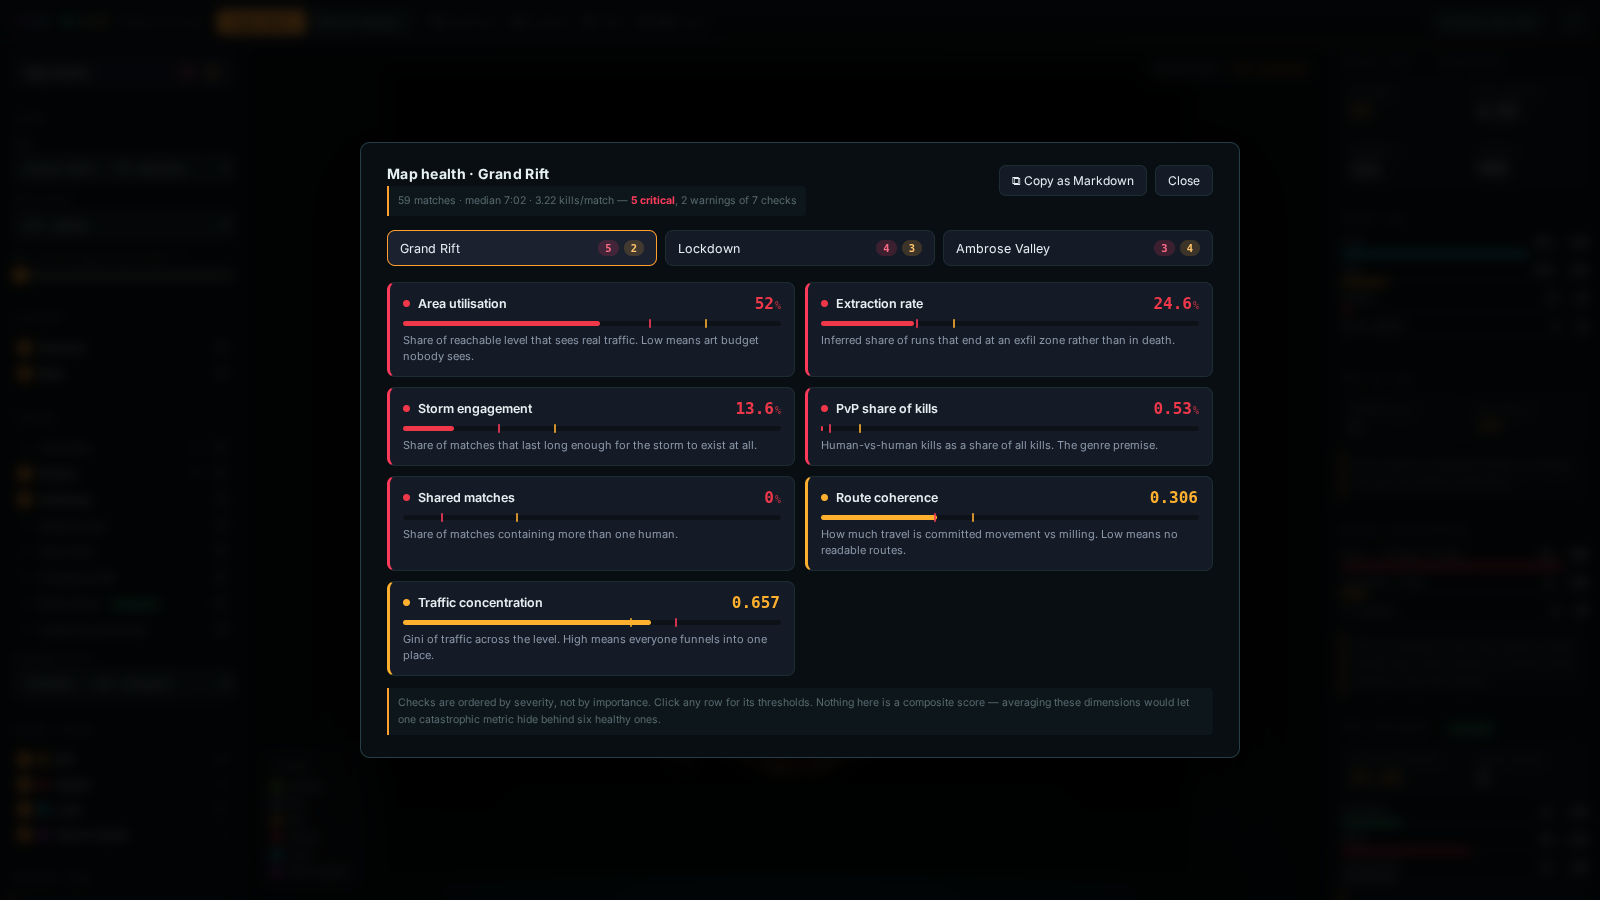
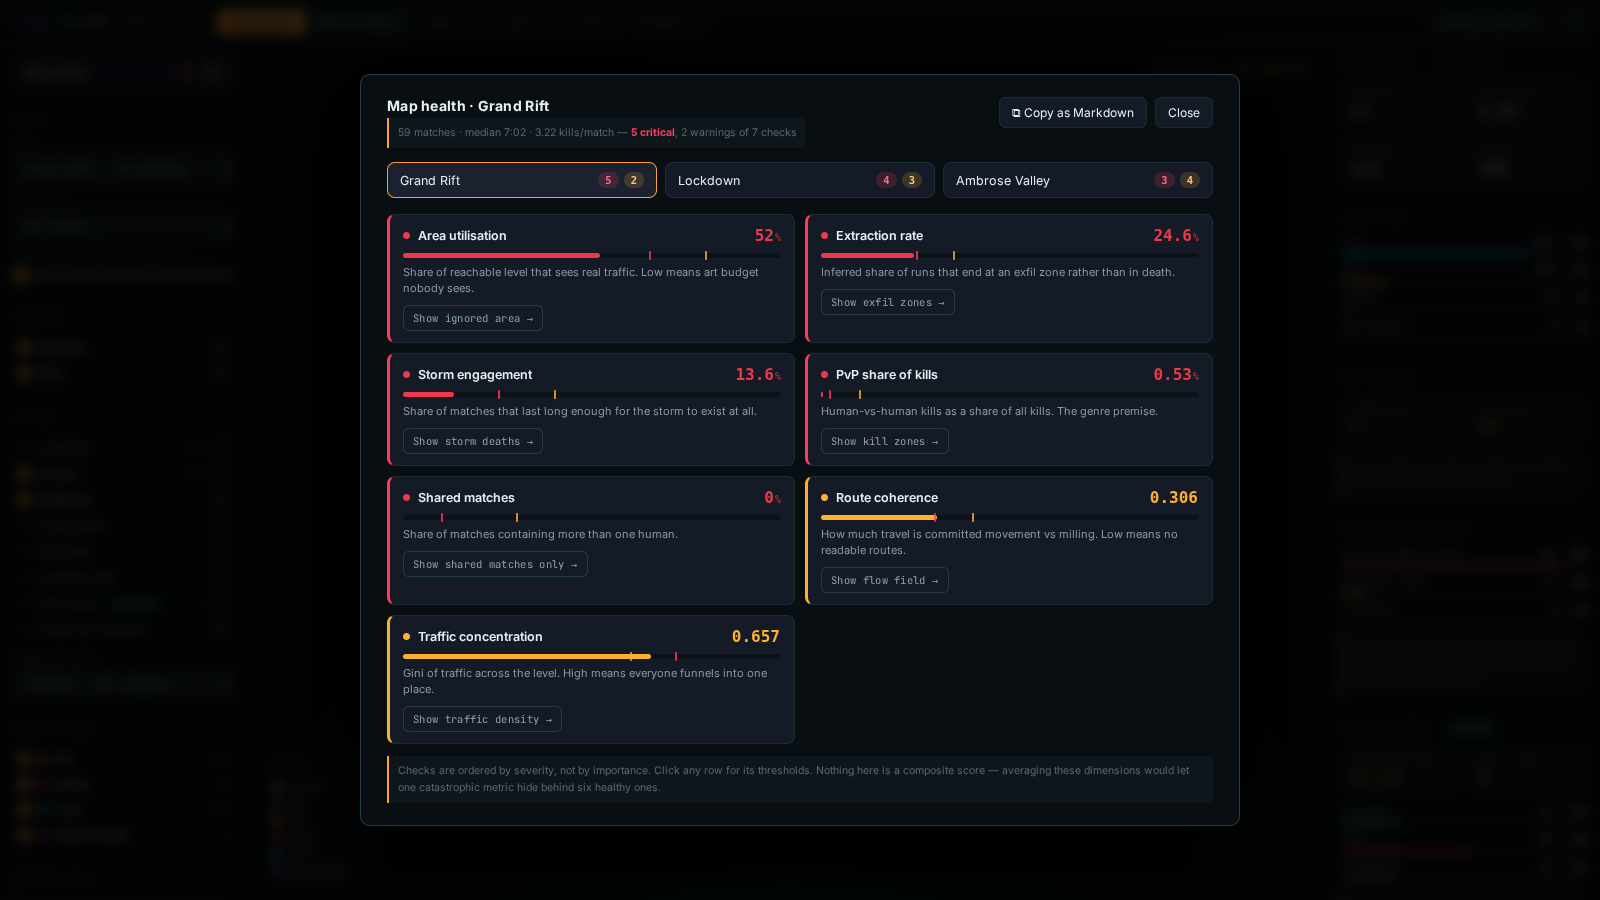
feat: clickable evidence on every scorecard flag; focus docs on six features
A flag you cannot interrogate is just a number. Each of the seven checks
now knows which layers prove it, so one click configures the map to the
evidence and closes the card.

Docs restructured around six features rather than a flat list of twelve:
four differentiators (exfil inference, rotation/flow, phase compare,
scorecard) and the two foundations they stand on (journey explorer,
match replay). Nothing removed - the core requirements are all still
there, they just no longer read as scattered.

Added industry grounding to README and ARCHITECTURE 4b: the four
headline features match how battle-royale telemetry is actually
consumed - endpoint-location analysis (COD Warzone Caldera study),
mart_player_rotation and fact_match_phase (PUBG warehouses), and
balance marts. Also records what was rejected and why: chokepoint
detection would render empty at 93.3% solo matches.

diff --git a/web/src/components/Scorecard.tsx b/web/src/components/Scorecard.tsx
@@ -40,8 +40,47 @@ function Gauge({ row }: { row: ScorecardRow }) {
   );
 }
 
+/**
+ * Each check knows which layers prove it. A flag you cannot interrogate is
+ * just a number; this turns every row into a one-click jump to the evidence,
+ * which is the difference between a report and a tool.
+ */
+const EVIDENCE: Record<string, { patch: any; label: string }> = {
+  utilisation: {
+    label: 'Show ignored area',
+    patch: { showDead: true, showHeat: false, showDiff: false, showFlow: false, showPaths: false, showEvents: false },
+  },
+  coherence: {
+    label: 'Show flow field',
+    patch: { showFlow: true, flowMin: 0.3, showHeat: true, heatMetric: 'traffic', showDiff: false, showDead: false, showPaths: false, showEvents: false },
+  },
+  concentration: {
+    label: 'Show traffic density',
+    patch: { showHeat: true, heatMetric: 'traffic', showDiff: false, showFlow: false, showDead: false, showPaths: false, showEvents: false },
+  },
+  extraction: {
+    label: 'Show exfil zones',
+    patch: { showExfil: true, colorByOutcome: true, showHeat: false, showDiff: false, showFlow: false, showDead: false, showPaths: false, showEvents: false },
+  },
+  storm_reach: {
+    label: 'Show storm deaths',
+    patch: { showHeat: true, heatMetric: 'storm', showDiff: false, showFlow: false, showDead: false, showPaths: false, showEvents: true },
+  },
+  pvp_share: {
+    label: 'Show kill zones',
+    patch: { showHeat: true, heatMetric: 'kills', showDiff: false, showFlow: false, showDead: false, showPaths: false, showEvents: false },
+  },
+  shared: {
+    label: 'Show shared matches only',
+    patch: { minHumans: 2, showHeat: true, heatMetric: 'traffic_human', showDiff: false, showFlow: false, showDead: false, showPaths: false, showEvents: false },
+  },
+};
+
 function Row({ row }: { row: ScorecardRow }) {
   const [open, setOpen] = useState(false);
+  const patch = useStore((s) => s.patch);
+  const setOpenCard = useStore((s) => s.setScorecard);
+  const ev = EVIDENCE[row.key];
   const color = STATUS_COLOR[row.status];
   return (
     <div className={`sc-row ${row.status}`} onClick={() => setOpen(!open)}>
@@ -56,6 +95,18 @@ function Row({ row }: { row: ScorecardRow }) {
       <Gauge row={row} />
       <div className="sc-why">
         {row.why}
+        {ev && (
+          <button
+            className="sc-ev"
+            onClick={(e) => {
+              e.stopPropagation();
+              patch(ev.patch);
+              setOpenCard(false);
+            }}
+          >
+            {ev.label} →
+          </button>
+        )}
         {open && (
           <div className="sc-thr">
             {row.higher ? 'Higher is better. ' : 'Lower is better. '}

diff --git a/web/src/theme.css b/web/src/theme.css
@@ -523,3 +523,11 @@ sup.inf {
 }
 .row.static { cursor: default; }
 .row.static:hover { background: none; }
+.sc-ev {
+  display: block; margin-top: 8px; padding: 5px 9px;
+  background: transparent; border: 1px solid var(--line-2);
+  border-radius: 6px; color: var(--text-2);
+  font-family: var(--mono); font-size: 10.5px; letter-spacing: .03em;
+  cursor: pointer; transition: border-color .15s, color .15s;
+}
+.sc-ev:hover { border-color: var(--accent); color: var(--accent); }

diff --git a/README.md b/README.md
@@ -22,24 +22,42 @@ A browser tool that turns 5 days of raw LILA BLACK telemetry into something a **
 
 ## What it does
 
-| | Feature |
+Six features. Four of them are the reason this is worth your time; two are the
+foundation they stand on.
+
+### The four
+
+| | Feature | What it answers | Why it exists |
+|---|---|---|---|
+| 1 | **Exfil Intelligence** <sup>inferred</sup> | *Where do players actually get out?* | The telemetry has **no extraction event** — the defining outcome of an extraction shooter is unrecorded. These zones are recovered statistically: locations where 13–47× more runs end than traffic predicts, validated against an independent signal (players ending inside one die **0.6 %** of the time; everyone else dies **82.8 %**). Produces an **extraction rate** (~27 %) that was previously unmeasurable. `ARCHITECTURE.md` §3c |
+| 2 | **Rotation & Flow Field** | *Which way do players move, and is it a route or a wander?* | A heatmap says *where*. This says *which way*, per cell, coloured by **coherence** = `\|Σv\| / Σ\|v\|` — amber is a one-way corridor, blue is milling. Rotations are a first-class table in real battle-royale warehouses, not an afterthought. `ARCHITECTURE.md` §3b |
+| 3 | **Phase Compare (A/B)** | *Did the distribution of players actually move?* | Divergent diff of any two slices — late vs early game, bots vs humans, deaths vs traffic. Both sides are normalised to a share of their own total **before** subtracting, so it measures redistribution rather than sample size. `ARCHITECTURE.md` §3b |
+| 4 | **Map Health Scorecard** | *What's wrong with this map, without me going to look?* | Seven checks per map, severity-ranked, thresholds visible and contestable, **every flag clickable straight to the layer that proves it**, exportable as Markdown for a ticket. The only declarative view in the tool. `ARCHITECTURE.md` §3d |
+
+### The two it stands on
+
+| | Feature | Contains |
+|---|---|---|
+| 5 | **Journey Explorer** | The aggregate workspace: every path on the correct minimap, humans (lime) vs bots (slate), kill/death/loot/storm markers, filtering by map / date / match / player count, six heatmap metrics, **dead-zone detection**, and a `Shift`+drag **region tool** that returns kill/death/loot counts and traffic share for any area. |
+| 6 | **Match Replay** | One match animated over its own timeline — play/pause, 1×–16×, scrub, frame-step, with an **event-density histogram baked into the scrubber** so you can see where the action is and click to it. |
+
+Throughout: every filter, layer, match and timestamp lives in the URL, so **Copy view link** puts the exact screen in a colleague's hands. `Ctrl`/`⌘`+`D` overlays a live world-coordinate grid so the projection can be audited without reading code.
+
+---
+
+## Grounding: this is the feature set real studios build
+
+The four headline features weren't invented. They're the standard shape of
+battle-royale level-design analytics, checked against how the genre's
+practitioners actually work:
+
+| Here | Industry equivalent |
 |---|---|
-| **Two modes** | **Aggregate** — heatmaps and statistics across hundreds of matches. **Match Replay** — one match, animated, with a timeline. They're different jobs, so they're different screens. |
-| **Player journeys** | Every path projected onto the correct minimap with the world→pixel transform verified against map landmarks (see `ARCHITECTURE.md` §3). |
-| **Humans vs bots** | Humans are bright green circles with thicker paths; bots are dimmed slate squares with thin paths. Distinguishable at a glance, toggleable with `H` / `B`. |
-| **Event markers** | Kill (amber), Death (red), Loot (cyan), Storm death (violet) — consistent across markers, legend, filters and timeline. |
-| **Filtering** | By map, by UTC date, by match, and by minimum human players per match. |
-| **Timeline playback** | Play/pause, 1×–16× speed, scrub, frame-step. The scrubber track has an **event-density histogram** baked in, so you can see where the action is and click straight to it. |
-| **Heatmaps** | Traffic (all / humans only), kill zones, death zones, loot density, storm deaths. |
-| **Flow field** | Movement **direction**, not just density. Each cell shows the mean heading of players crossing it, coloured by **coherence** (`\|Σv\| / Σ\|v\|`) — amber = a one-way corridor everyone traverses the same way, blue = a pocket where players mill about. A heatmap says *where*; this says *which way*, which is what "map flow" actually means. |
-| **Compare A/B** | A divergent diff of any two slices of the map — late vs early game, bots vs humans, deaths vs traffic. Both sides are normalised to a share of their own total before subtracting, so it shows players **redistributing** rather than one slice simply having more rows. Red = busier in A, blue = busier in B. This is the "did the change work?" view, applied to level design. |
-| **Exfil zones** <sup>inferred</sup> | The dataset has **no extraction event**. These are recovered statistically — locations where 13–47× more runs end than traffic predicts. Validated against an independent signal: players ending inside one die **0.6 %** of the time, everyone else dies **82.8 %** of the time. Gives LILA an **extraction rate** (~27 %) that was previously unmeasurable. See `ARCHITECTURE.md` §3c. |
-| **Map health scorecard** | Seven checks per map — utilisation, route coherence, traffic concentration, extraction rate, storm engagement, PvP share, shared matches — each flagged ok/warn/critical with visible thresholds, ranked by severity, and exportable as Markdown for a ticket. The tool volunteers problems instead of waiting to be interrogated. |
-| **Dead zones** | The inverse heatmap — grid cells players effectively never enter. The brief asked "which areas of the map get ignored"; this answers it directly. |
-| **Region tool** | `Shift`+drag any area to get its kill/death/loot counts and traffic share. "Is this building pulling its weight?" |
-| **Shareable views** | Every filter, layer, match and timestamp lives in the URL. **Copy view link** puts the exact screen in a colleague's hands. |
-| **Movement character** | Headline read-out of the flow field: mean coherence, mean speed in world units/second, and the split between true routes and churn cells. |
-| **Coordinate debug** | `Ctrl`/`⌘`+`D` overlays a live world-coordinate grid so the projection can be audited without reading code. |
+| Exfil zone inference | The COD: Warzone *Caldera* telemetry study analyses player paths **and their endpoint locations**; PUBG analytics warehouses build a `mart_drop_zone` grid mart on the same principle. |
+| Rotation & flow field | `mart_player_rotation` is a first-class fact table (player × match) in production PUBG warehouses. |
+| Phase compare | `fact_match_phase` (match × zone phase) is standard grain; a midcore studio writing in *PocketGamer.biz* shows the same thing as "movements on the map, different colours for different stages of the level". |
+| Map health scorecard | Balance marts — "weapons · drops · zones" — are how balance teams consume telemetry rather than reading raw graphs. |
+| Dead zones | The same *PocketGamer.biz* team used heatmaps specifically to find dead ends and under-used routes, then moved spawn points to redirect traffic. |
 
 ---
 

diff --git a/ARCHITECTURE.md b/ARCHITECTURE.md
@@ -226,6 +226,19 @@ Exact-`(0,0)` coordinates are treated as spawn/null placeholders rather than a r
 
 ---
 
+## 4b. Why these features, and not others
+
+The four analytical layers were chosen to match how battle-royale telemetry is actually consumed in production, not invented from scratch:
+
+- **Endpoint analysis** — the COD: Warzone *Caldera* telemetry study works on "player movement paths and their endpoint locations"; grid-cell drop/zone marts are standard in PUBG analytics warehouses. §3c applies that to a game where the endpoint event is missing entirely.
+- **Rotations** — `mart_player_rotation` at player × match grain is a first-class table in production battle-royale warehouses, which is why direction and coherence get their own layer rather than being folded into the heatmap.
+- **Phase grain** — `fact_match_phase` (match × phase) is standard. Phase here is *relative* to each match's own duration because length varies 3–4×.
+- **Balance marts** — balance teams consume flagged summaries, not raw graphs. A midcore studio writing up their heatmap tooling made the same point explicitly: interpreting heatmaps needs product expertise, so the tool should do the interpreting.
+
+**What was deliberately rejected:** chokepoint / encounter-density detection, which is textbook for this genre. With 93.3 % of matches containing exactly one human it would have rendered an empty layer. A feature that is correct in principle and empty in practice is worse than no feature.
+
+---
+
 ## 5. Major trade-offs
 
 | Decision | Alternative considered | Why I chose it | Cost |
